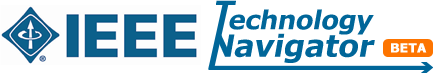
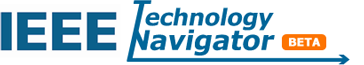
Added IEEE utility links to top of page; new header layout

diff --git a/media/css/style.css b/media/css/style.css
@@ -73,17 +73,29 @@ table.main td.center .center-pad {
     -webkit-border-radius: 10px 10px 0 0;
 }
 
-#header .left-banner {
-    float: left;
-    position:relative;
-    top:8px;
-    left:0px;
+#header-links {
+    float: right;
+    position: absolute;
+    white-space: nowrap;
+    right: 0;
+    top: 0;
 }
 
-#header .right-banner {
-    float: right;
-    margin-right: 7px;
-    margin-top: 18px;
+#header-links img {
+   margin: 11px 33px 0 0;
+   float: right;
+   clear: both;
+}
+
+#header-logo {
+   float: left;
+}
+
+#header-logo img {
+    float: left;
+    position:relative;
+    top:5px;
+    left:0px;
 }
 
 #header #right-help {
@@ -94,6 +106,7 @@ table.main td.center .center-pad {
    background-color: #33CC00;
    padding: 2px 10px;
    margin: 9px 35px 0 0;
+   border: 1px solid transparent;
    -moz-box-shadow: 1px 1px 5px #3F3F3F;
    -webkit-box-shadow: 1px 1px 5px #3F3F3F;
    -moz-border-radius: 3px;
@@ -113,11 +126,19 @@ table.main td.center .center-pad {
    font-size: 8pt;
    background-color: red;
    padding: 2px 10px;
-   margin: 9px 7px 0 0;
+   margin: 9px 35px 0 0;
+   border: 1px solid transparent;
    -moz-box-shadow: 1px 1px 5px #3F3F3F;
    -webkit-box-shadow: 1px 1px 5px #3F3F3F;
    -moz-border-radius: 3px;
    -webkit-border-radius: 3px;
+}
+
+#header #right-admin:hover {
+   text-decoration: none;
+   background-color: white;
+   color: red;
+   border: 1px solid red;
 }
 
 #header a.home img {
@@ -126,12 +147,12 @@ table.main td.center .center-pad {
 
 #header #tagline {
     color:#006699;
-    display:inline-block;
-    font-size:14pt;
+    float: left;
+    font-size:13pt;
     font-style:italic;
-    margin:-16px 34px 0 0;
-    float: right;
-    clear: left;
+    margin:49px 34px 0 0;
+    position: relative;
+    white-space: nowrap;
 }
 
 #header .leftCorner {
@@ -2518,6 +2539,17 @@ margin-top: 5px;
 }
 
 /*New Laytout*/
+#utility-links {
+float: right;
+margin: -23px 35px 0 0; 
+color: #FFFFFF; 
+}
+
+#utility-links a {
+color: #FFFFFF; 
+font-size: 9pt;  
+}
+
 #page-container {
 width: 100%;   
 }
@@ -2525,7 +2557,7 @@ width: 100%;
 #inner-container {
 width: 85%;
 min-width: 950px;
-margin: 10px auto;
+margin: 30px auto;
 padding: 0 10px 10px 10px;
 background: #FFFFFF url(/media/images/inner-top.png) no-repeat top right;
 -moz-border-radius: 10px 0 10px 10px;

diff --git a/templates/header.inc.html b/templates/header.inc.html
@@ -1,11 +1,15 @@
 <div id="header">
-    <a href="{{ LOGO_HREF }}" class="home">
-        <img class="left-banner" src="{{MEDIA_URL}}images/technav_banner.png" width="387" height="65"/>
-    </a>
-    {% if user.is_superuser %}
-        <a href="{% url admin_home %}" id="right-admin">Admin</a>
-    {% endif %}
-    
-    <a href="{{ EXTERNAL_HELP_URL }}" id="right-help" target="zendesk">Help</a>
-    <span id="tagline">Connecting You to the IEEE Universe of Information</span>
+    <span id="header-links">
+        {% if user.is_superuser %}
+            <a href="{% url admin_home %}" id="right-admin">Admin</a>
+        {% endif %}
+        <a href="{{ EXTERNAL_HELP_URL }}" id="right-help" target="zendesk">Help</a>
+        <img src="{{MEDIA_URL}}images/sm-logo.png" width="106" height="32"/>
+    </span>
+    <div id="header-logo">
+        <a href="{{ LOGO_HREF }}" class="home">
+            <img src="{{MEDIA_URL}}images/technav_banner.png" width="364" height="65"/>
+        </a>
+         <span id="tagline">Connecting You to the IEEE Universe of Information</span>
+    </div>
 </div>

diff --git a/templates/base.html b/templates/base.html
@@ -45,6 +45,14 @@
         {% block server_info %}{% endblock %}
         <div id="page-container">
             <div id="inner-container">
+                <div id="utility-links">
+                    <a href="http://ieee.org/"><img src="{{MEDIA_URL}}images/icon-house.gif" width="15" height="11"/>IEEE.org</a>&nbsp;|&nbsp;
+                    <a href="http://ieeexplore.ieee.org/">IEEE Xplore Digital Library</a>&nbsp;|&nbsp;
+                    <a href="http://standards.ieee.org/">IEEE Standards Association</a>&nbsp;|&nbsp;
+                    <a href="http://spectrum.ieee.org/">IEEE Spectrum Online</a>&nbsp;|&nbsp;
+                    <a href="http://ieee.org/sitemap.html">More IEEE Sites</a>
+                    </ul>
+                </div>
                 {% include "header.inc.html" %}
 {% endif %}
                 {% block content %}{% endblock %}
